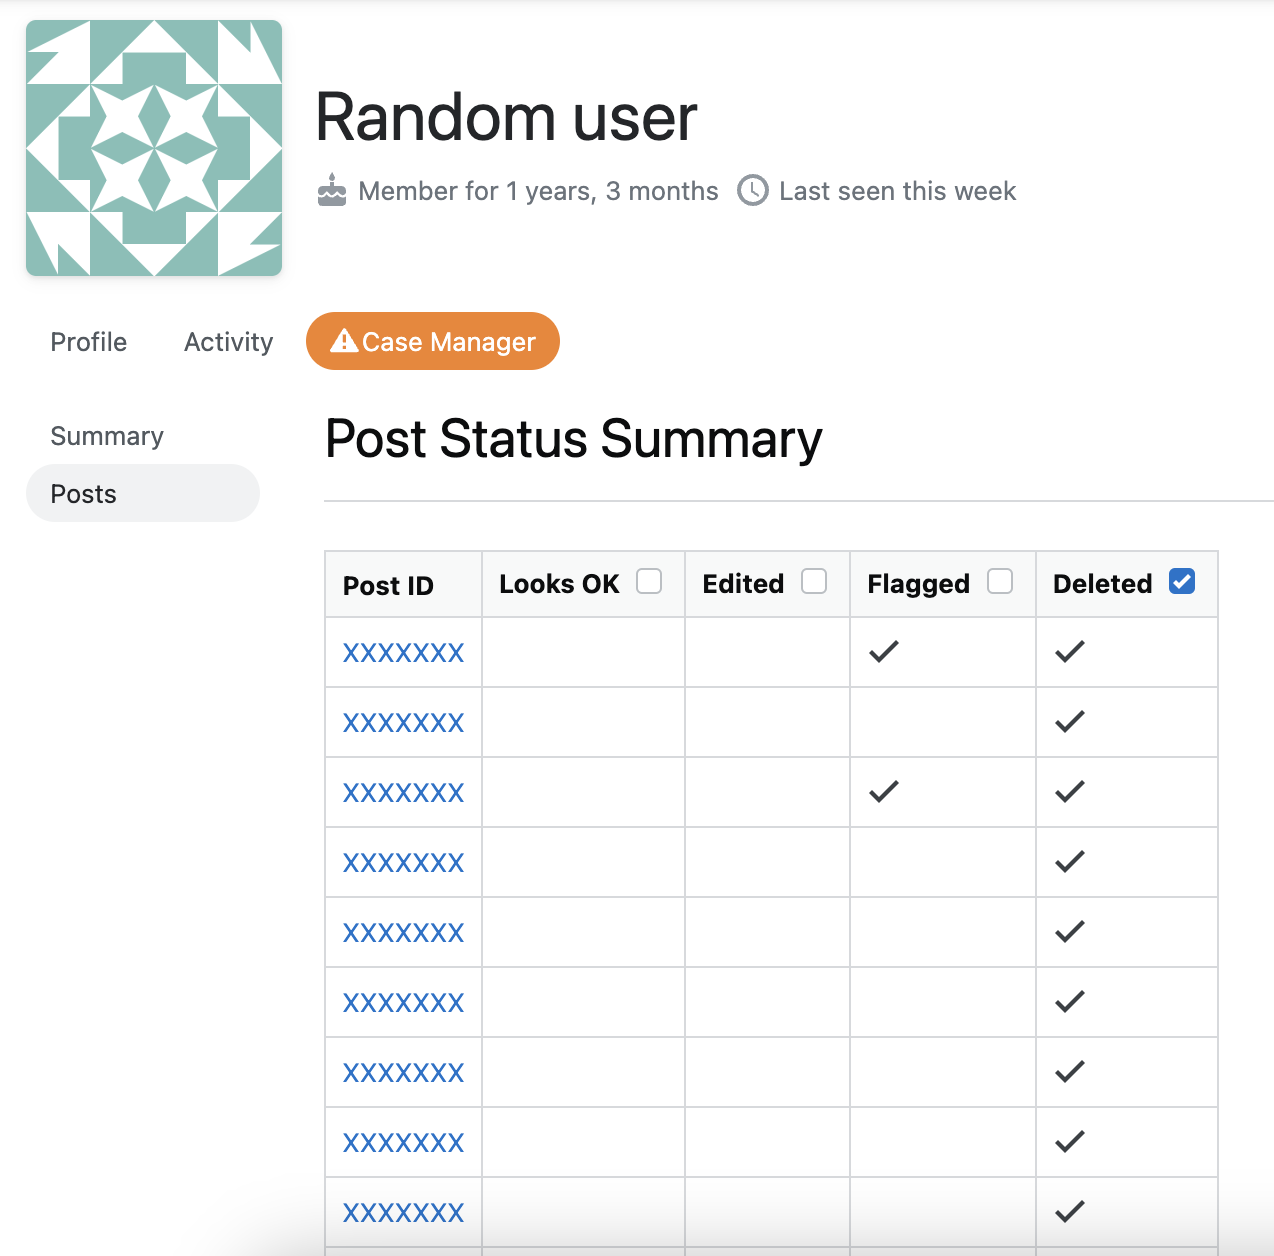
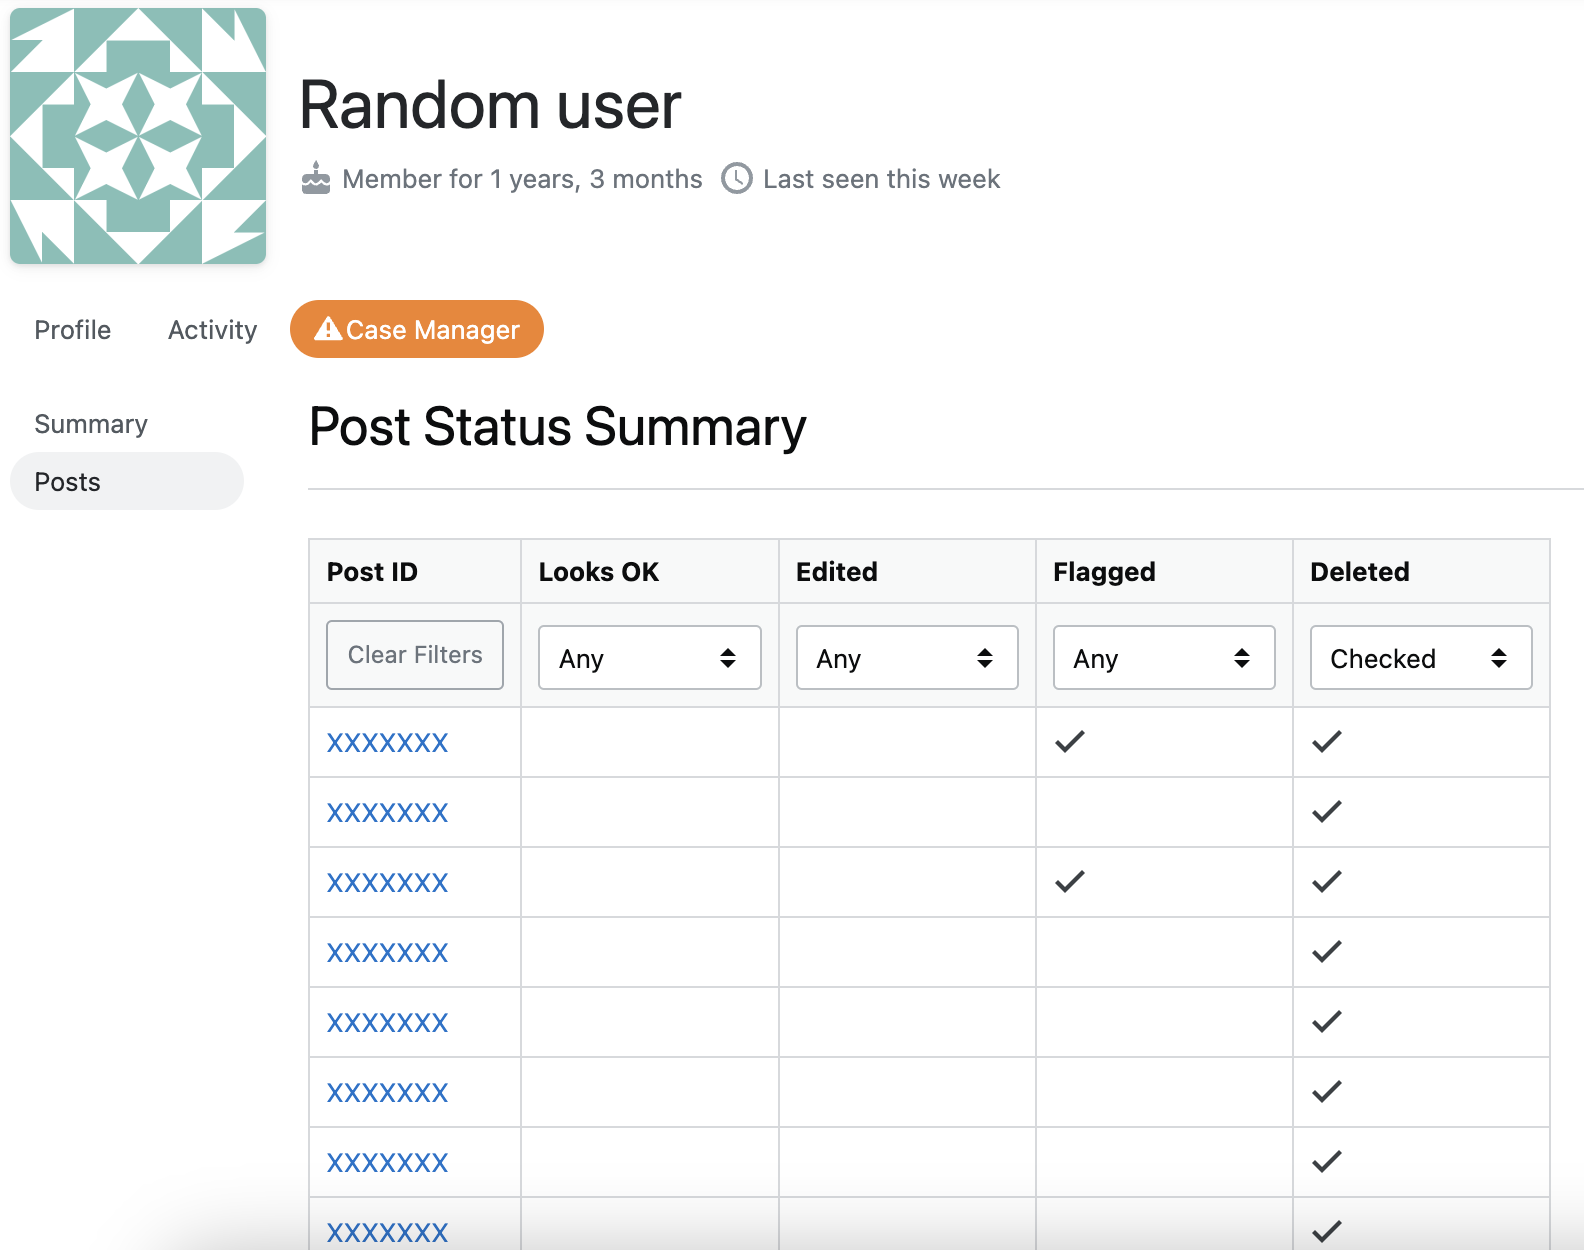
Update readme

diff --git a/README.md b/README.md
@@ -72,11 +72,21 @@ Clicking on the Posts tab will give you a table posts recorded in the system. Th
 
 #### Filtering Posts
 
-Clicking any of the headers that have checkboxes next to them will filter the table so only rows with at least that action will be displayed.
+Changing the selection box at the top of each column will affect which rows are displayed.
+
+For each column there are three options:
+- **Any** (Any value is in the specified column is acceptable. Basically does not affect if the row is displayed or not.)
+- **Checked** (The value in the specified column _must_ be a checkmark.)
+- **Unchecked** (The value in the specified column _must_ be empty (without a checkmark).)
 
 [![][17]][17]
 
-Multiple action filters can be selected to limit the display to only posts with a specific combination of actions (_e.g._ Flagged and Deleted).
+Multiple action filters can be selected to limit the display to only posts with a specific combination of actions (_e.g._ Flagged but not Deleted).
+
+[![][18]][18]
+
+At any time the "Clear Filters" button in the first column can be used to clear all filters (reset all columns to "Any").
+
 
 ---
 
@@ -158,3 +168,4 @@ Clicking on the tab will bring you to the UserScript Settings page. Here you can
  [15]: ./readme-images/Settings/Case%20Manager%20Auth%20Settings.png
  [16]: ./readme-images/UserSummary/user-case-manager-button-with-alert.png
  [17]: ./readme-images/UserSummary/user-detail-stats-filtered.png
+ [18]: ./readme-images/UserSummary/user-detail-stats-filtered-multiple.png
